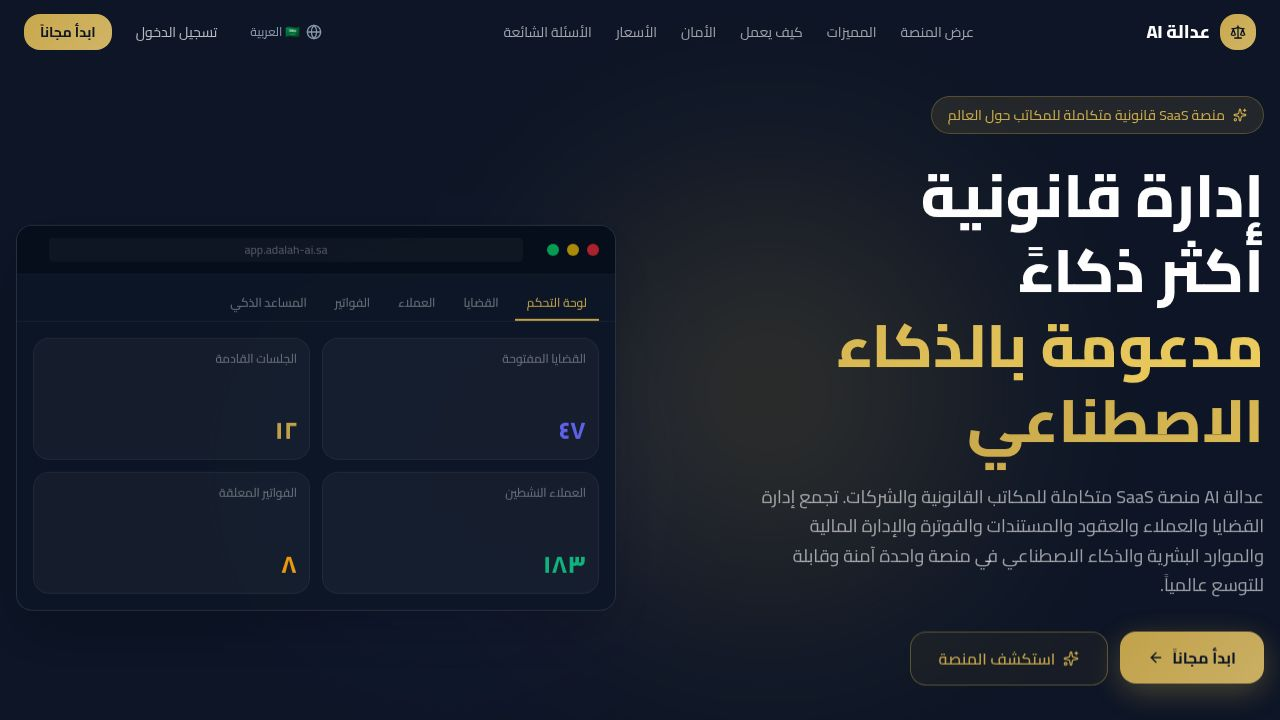
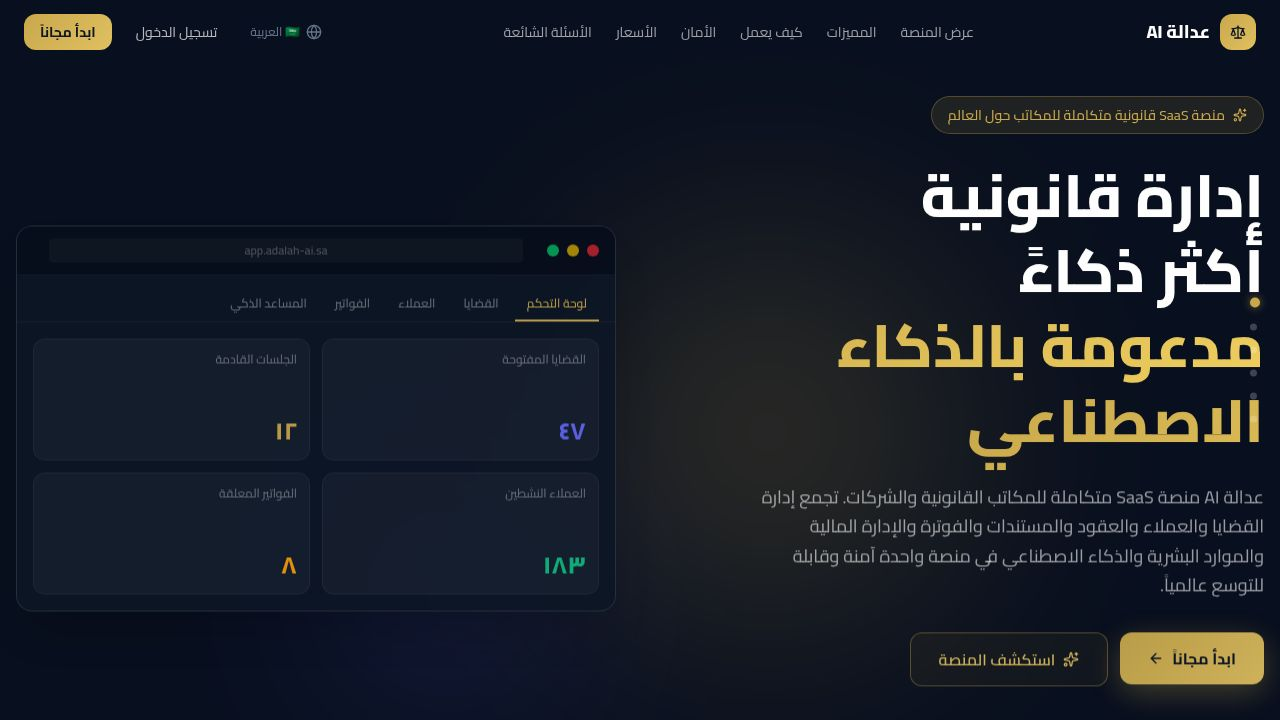
Remove duplicate layout wrappers from key pages to fix header display
Removes redundant `<Layout>` components from backup, my-sessions, and storage-settings pages, resolving a duplicate header issue caused by `ProtectedRoute` in `App.tsx`.

Replit-Commit-Author: Agent
Replit-Commit-Session-Id: f9c54132-b917-403f-b667-a4047a6f5de7
Replit-Commit-Checkpoint-Type: full_checkpoint
Replit-Commit-Event-Id: 85208dd9-7ad2-49bd-acd0-caa88cdd9e4d
Replit-Commit-Screenshot-Url: https://storage.googleapis.com/screenshot-production-us-central1/49c36474-049d-4b8d-a47c-c6e8c95b9717/f9c54132-b917-403f-b667-a4047a6f5de7/1uSXgXq
Replit-Helium-Checkpoint-Created: true

diff --git a/artifacts/adala/src/pages/backup.tsx b/artifacts/adala/src/pages/backup.tsx
@@ -2,7 +2,7 @@ import { useState, useRef, useEffect } from "react";
 import { useQuery, useMutation, useQueryClient } from "@tanstack/react-query";
 import { useUser } from "@clerk/react";
 import { useTranslation } from "react-i18next";
-import { Layout } from "@/components/layout";
+
 import { Card, CardContent, CardHeader, CardTitle, CardDescription } from "@/components/ui/card";
 import { Button } from "@/components/ui/button";
 import { Input } from "@/components/ui/input";
@@ -323,8 +323,7 @@ export default function BackupCenter() {
   const successJobs = jobs.filter(j => j.status === "completed").length;
 
   return (
-    <Layout>
-      <div className="p-6 space-y-6 max-w-5xl mx-auto">
+    <div className="p-6 space-y-6 max-w-5xl mx-auto">
 
         {/* ─── Header ─── */}
         <div className="flex items-center justify-between flex-wrap gap-4">
@@ -975,6 +974,5 @@ export default function BackupCenter() {
           </TabsContent>
         </Tabs>
       </div>
-    </Layout>
   );
 }

diff --git a/artifacts/adala/src/pages/my-sessions.tsx b/artifacts/adala/src/pages/my-sessions.tsx
@@ -9,7 +9,7 @@ import { Card, CardContent, CardHeader, CardTitle } from "@/components/ui/card";
 import { Badge } from "@/components/ui/badge";
 import { Button } from "@/components/ui/button";
 import { useToast } from "@/hooks/use-toast";
-import { Layout } from "@/components/layout";
+
 
 const BASE = import.meta.env.BASE_URL.replace(/\/$/, "");
 
@@ -75,8 +75,7 @@ export default function MySessionsPage() {
   };
 
   return (
-    <Layout>
-      <div className="p-6 max-w-4xl mx-auto space-y-6" dir="rtl">
+    <div className="p-6 max-w-4xl mx-auto space-y-6" dir="rtl">
 
         {/* ── Header ── */}
         <div className="flex items-center justify-between flex-wrap gap-3">
@@ -254,6 +253,5 @@ export default function MySessionsPage() {
         </Card>
 
       </div>
-    </Layout>
   );
 }

diff --git a/artifacts/adala/src/pages/storage-settings.tsx b/artifacts/adala/src/pages/storage-settings.tsx
@@ -1,7 +1,7 @@
 import { useState } from "react";
 import { useQuery, useMutation, useQueryClient } from "@tanstack/react-query";
 import { useUser } from "@clerk/react";
-import { Layout } from "@/components/layout";
+
 import { Card, CardContent, CardHeader, CardTitle } from "@/components/ui/card";
 import { Button } from "@/components/ui/button";
 import { Input } from "@/components/ui/input";
@@ -527,8 +527,7 @@ function SettingsTab() {
 /* ────────────── MAIN PAGE ────────────── */
 export default function StorageSettings() {
   return (
-    <Layout>
-      <div className="min-h-screen bg-gradient-to-br from-[#0B1B2B] via-[#0D2137] to-[#0B1B2B] p-4 md:p-8">
+    <div className="min-h-screen bg-gradient-to-br from-[#0B1B2B] via-[#0D2137] to-[#0B1B2B] p-4 md:p-8">
         {/* Header */}
         <div className="flex items-center justify-between mb-8">
           <div>
@@ -564,6 +563,5 @@ export default function StorageSettings() {
           <TabsContent value="settings"><SettingsTab /></TabsContent>
         </Tabs>
       </div>
-    </Layout>
   );
 }